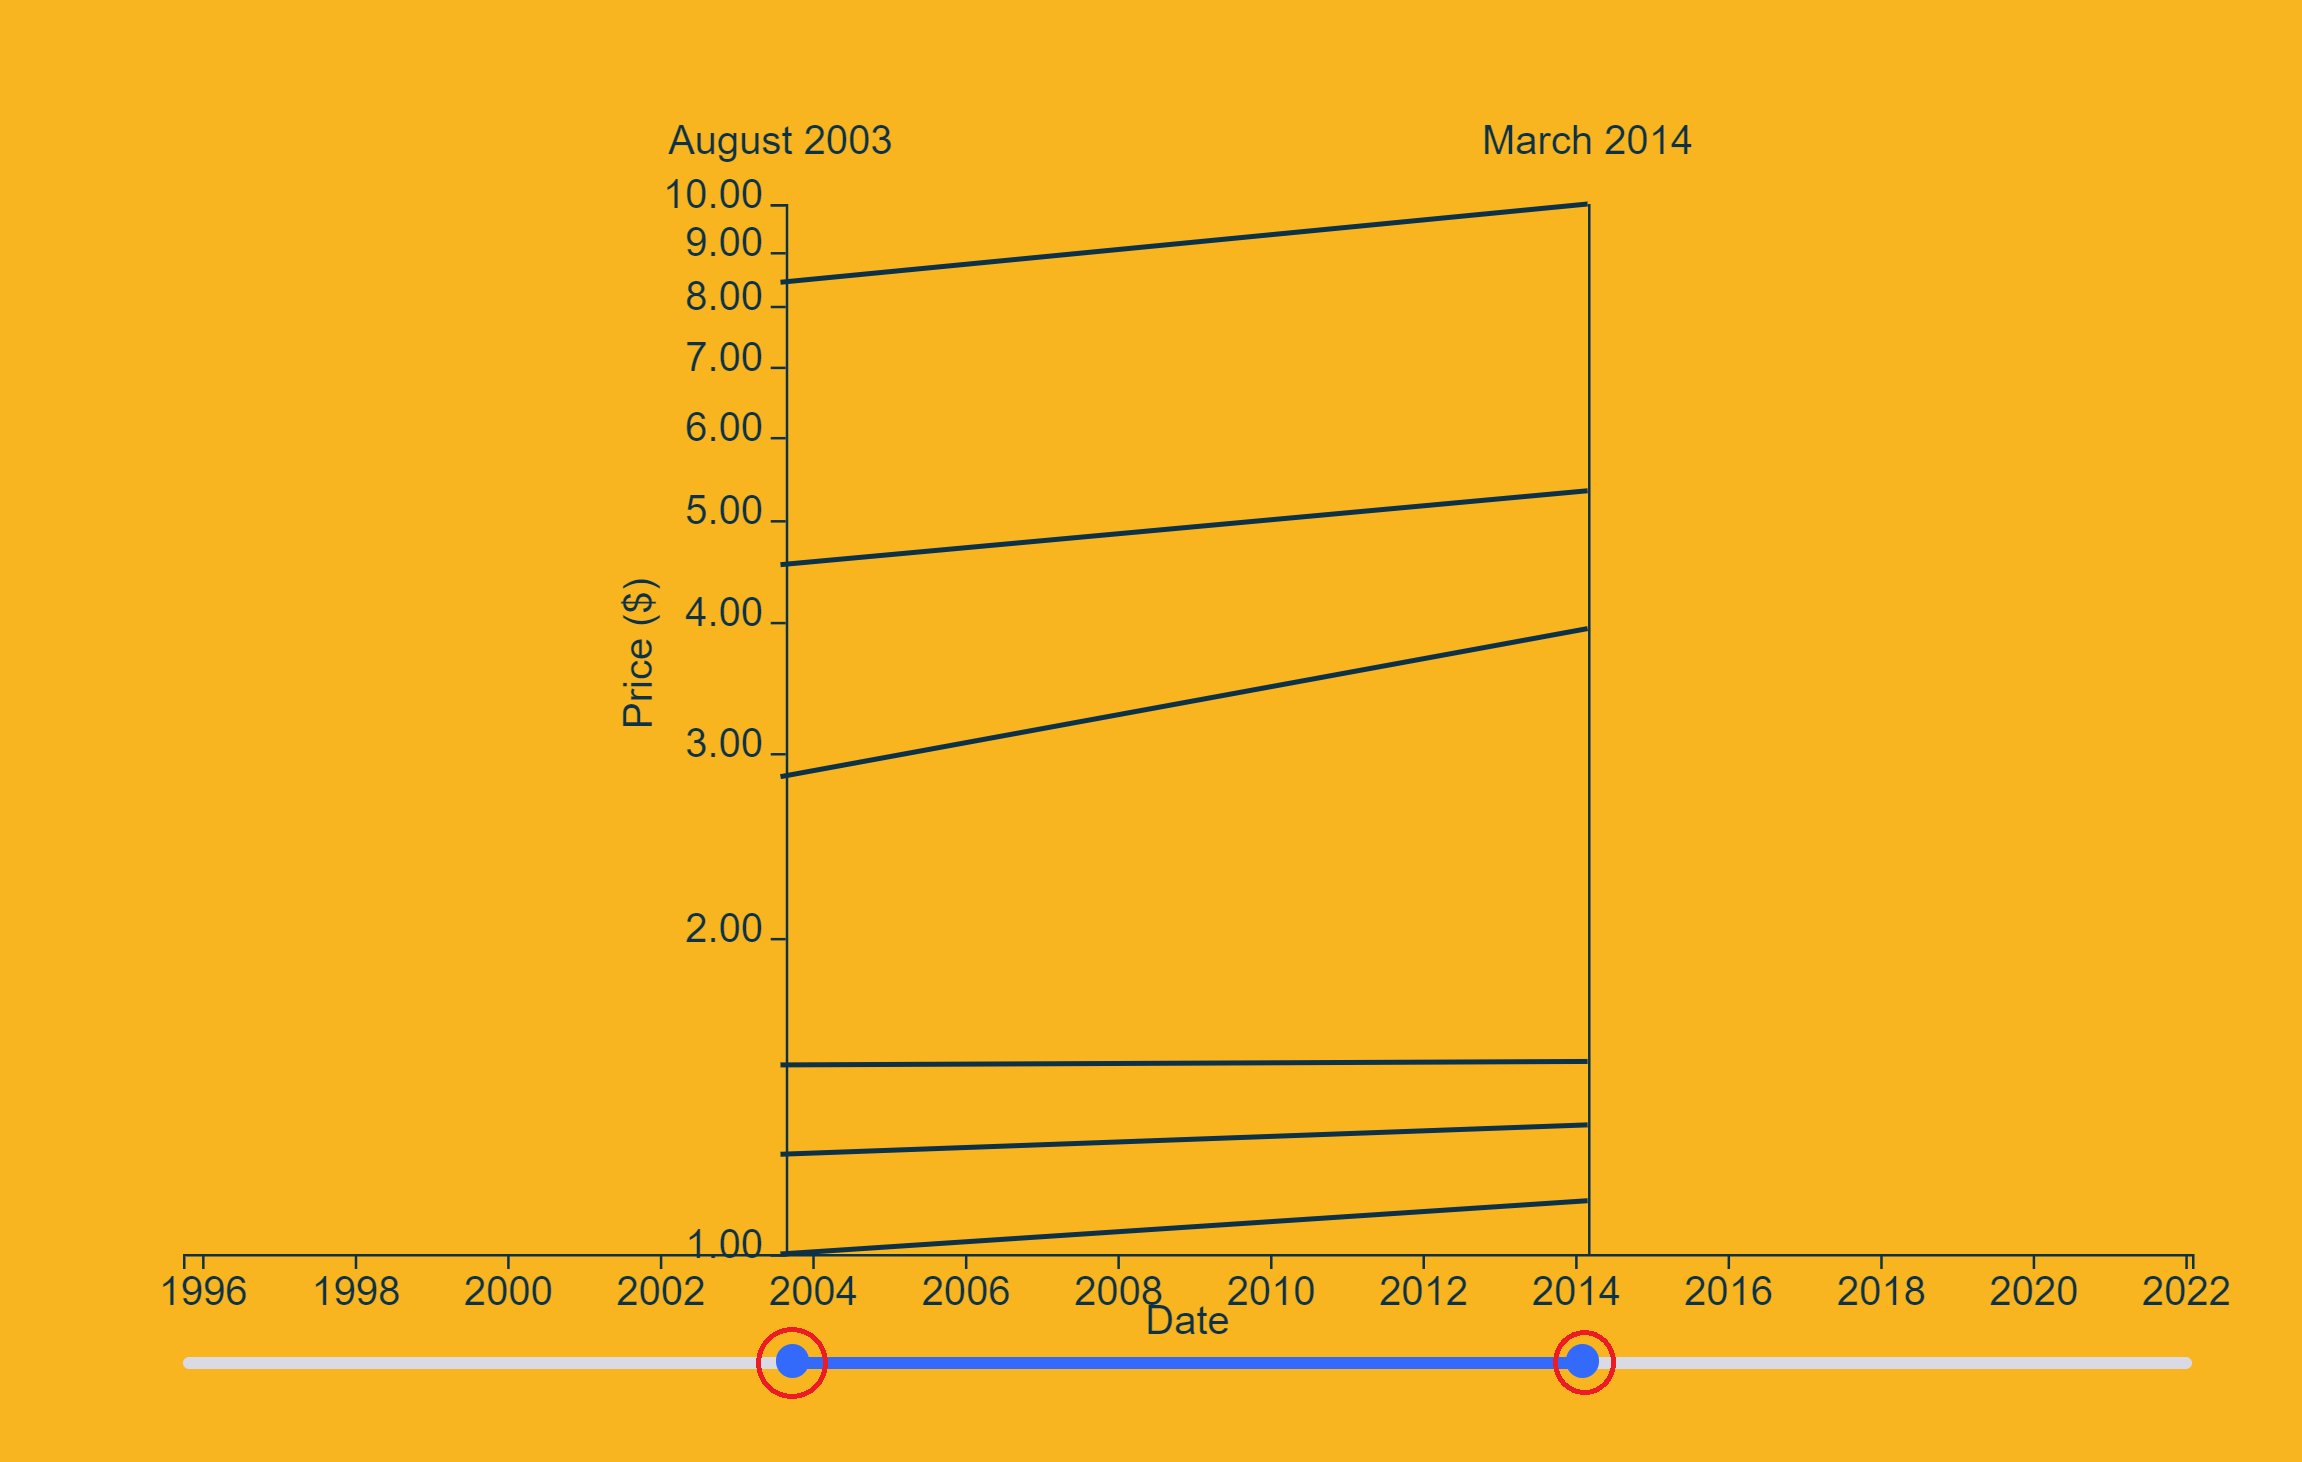
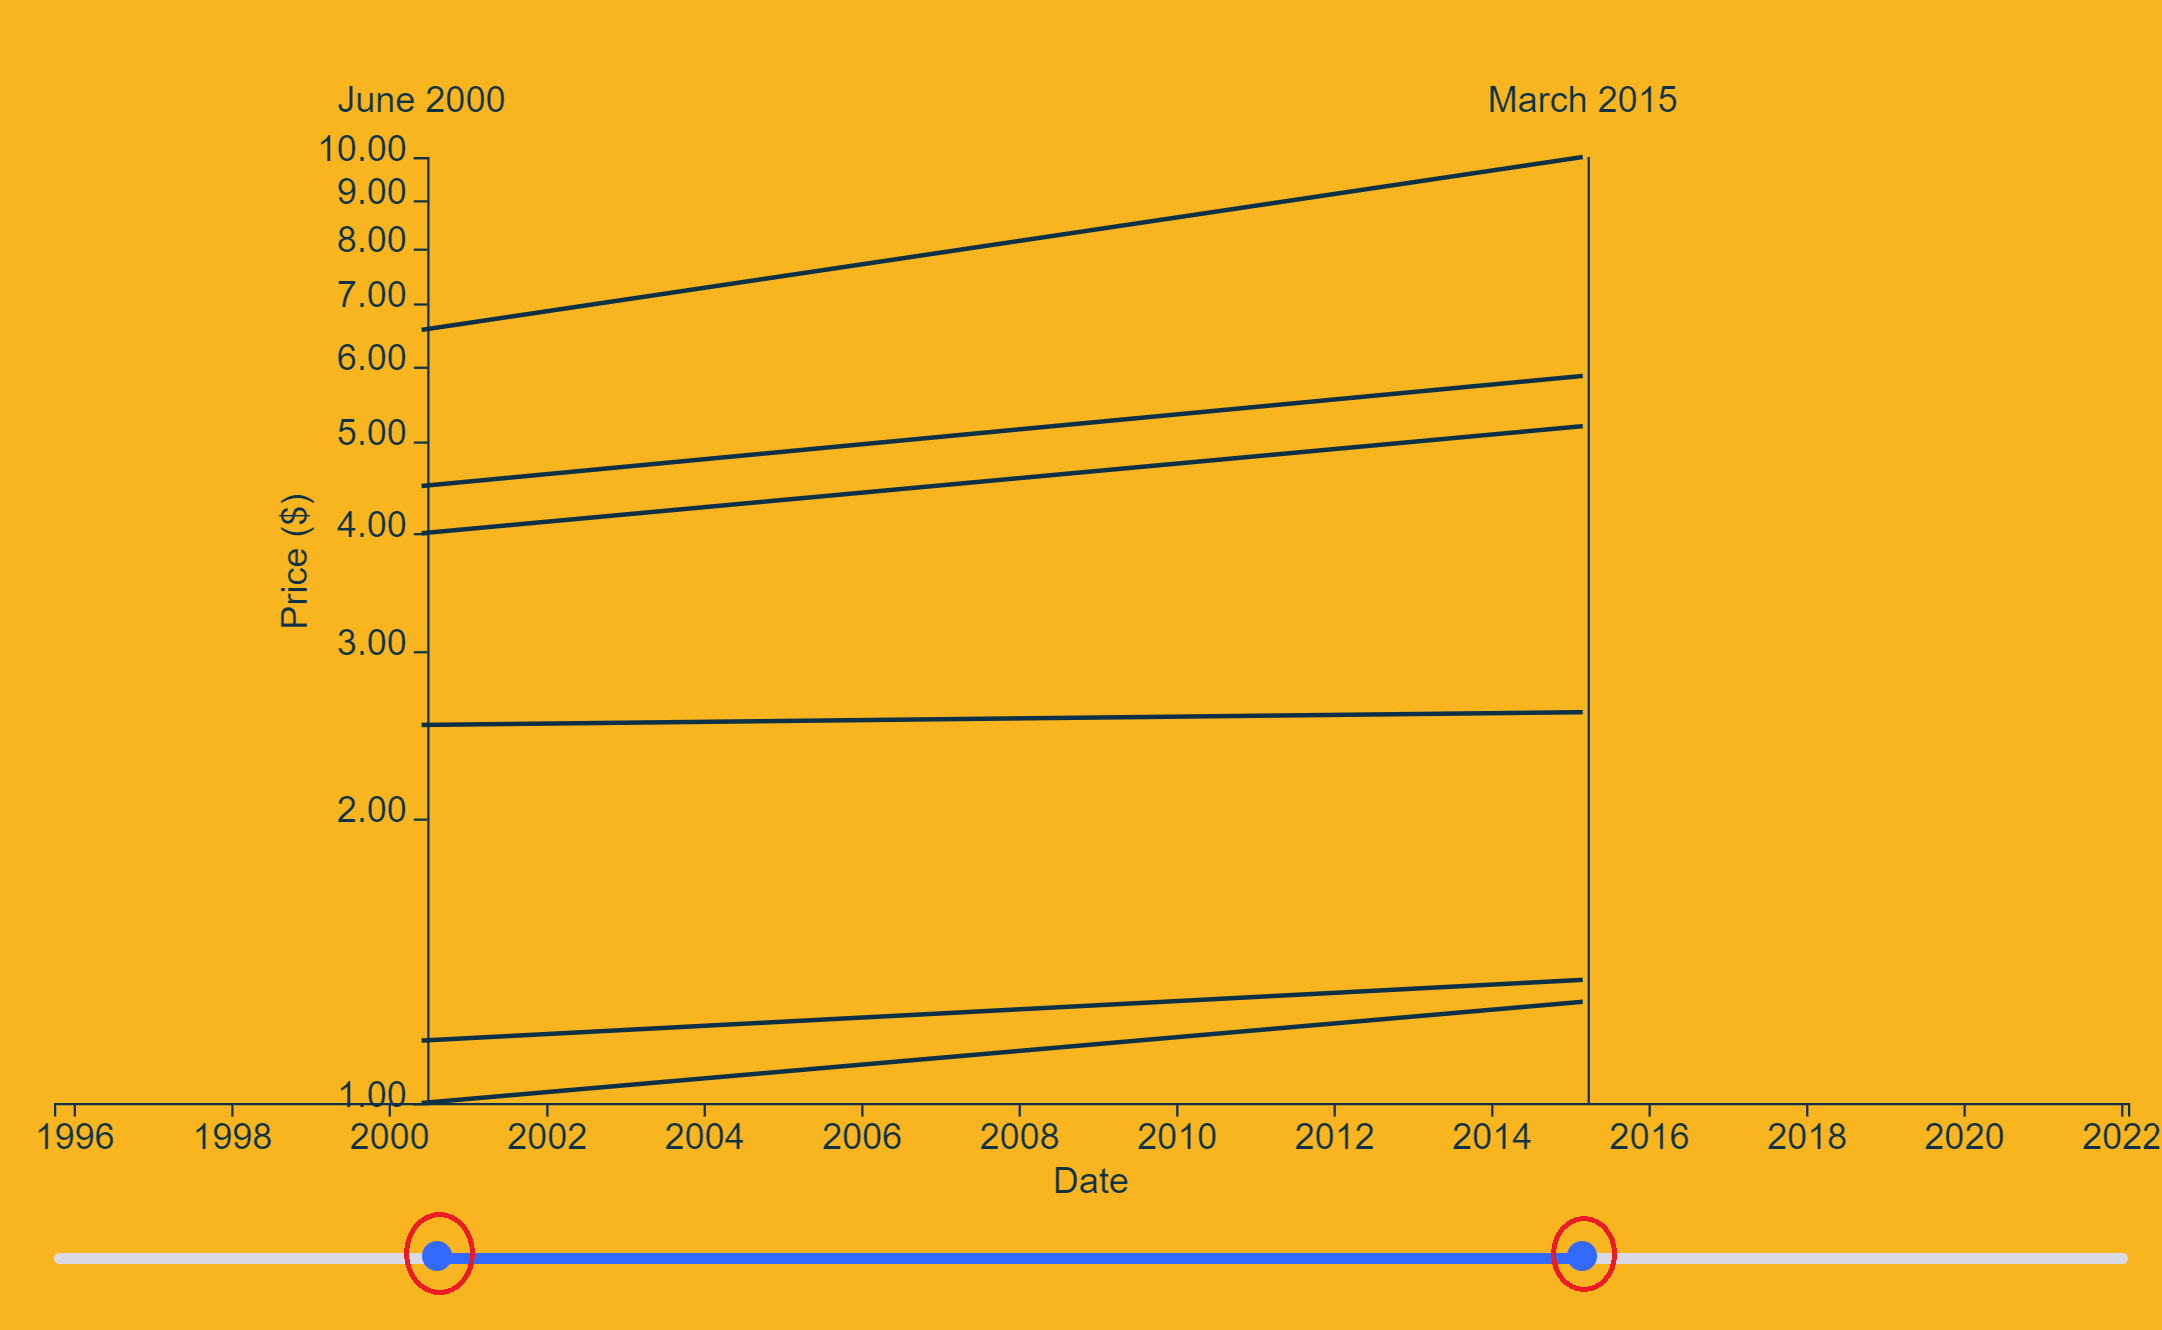
Move helper button up and refresh helper images

diff --git a/src/scripts/graphics/priceChanges.js b/src/scripts/graphics/priceChanges.js
@@ -238,44 +238,7 @@ function drawLines () {
     return
   }
   createCurves(selectedData)
-  createToolTip()
   formatYAxesDateLabels(selectedData)
-}
-
-/**
- *
- */
-function createToolTip () {
-  d3.select('#linesPriceChange')
-    .selectAll('.curvePriceChange')
-    .on('mouseenter', function (d) {
-      d3.select(this)
-        .attr('stroke', 'var(--accent)')
-        .attr('stroke-width', '4')
-      d3.select('body')
-        .append('div')
-        .attr('id', 'tooltip')
-        .style('position', 'absolute')
-        .style('z-index', '10')
-        .style('background', 'white')
-        .style('padding', '10px')
-        .style('border-radius', '5px')
-        .style('box-shadow', '1px 1px 5px black')
-        .style('left', (d3.event.pageX + glob.sizes.tooltip.offsetY) + 'px')
-        .style('top', (d3.event.pageY + glob.sizes.tooltip.offsetY) + 'px')
-        .html(`<strong>Product: ${d.map(a => a.product)[0]}<br/> 
-                Price in ${d.map(a => a.date)[0]}: $${d.map(a => a.price)[0]}<br/> 
-                Price in ${d.map(a => a.date)[1]}: $${d.map(a => a.price)[1]}
-                </strong>`)
-    })
-    .on('mouseleave', function () {
-      d3.select(this)
-        .attr('stroke', 'var(--front)')
-        .attr('stroke-width', '2')
-      d3.select('#tooltip')
-        .remove()
-    }
-    )
 }
 
 /**
@@ -302,6 +265,34 @@ function createCurves (selectedData) {
     .attr('stroke', 'var(--front)')
     .attr('stroke-width', '2')
     .attr('fill', 'none')
+    .on('mouseenter', function (d) {
+      d3.select(this)
+        .attr('stroke', 'var(--accent')
+        .attr('stroke-width', '4')
+      d3.select('body')
+        .append('div')
+        .attr('id', 'tooltip')
+        .style('position', 'absolute')
+        .style('z-index', '10')
+        .style('background', 'white')
+        .style('padding', '10px')
+        .style('border-radius', '5px')
+        .style('box-shadow', '1px 1px 5px black')
+        .style('left', (d3.event.pageX + glob.sizes.tooltip.offsetY) + 'px')
+        .style('top', (d3.event.pageY + glob.sizes.tooltip.offsetY) + 'px')
+        .html(`<strong>Product: ${d.map(a => a.product)[0]}<br/> 
+                Price in ${d.map(a => a.date)[0]}: $${d.map(a => a.price)[0]}<br/> 
+                Price in ${d.map(a => a.date)[1]}: $${d.map(a => a.price)[1]}
+                </strong>`)
+    })
+    .on('mouseleave', function () {
+      d3.select(this)
+        .attr('stroke', 'var(--front)')
+        .attr('stroke-width', '2')
+      d3.select('#tooltip')
+        .remove()
+    }
+    )
 }
 
 /**

diff --git a/src/scripts/graphics/helper.js b/src/scripts/graphics/helper.js
@@ -8,12 +8,12 @@ export function createHelper (divId, numStates, folderName) {
   d3.select('#' + divId)
     .select(function () { return this.parentNode })
     .append('div')
-    .style('width','0px')
-    .style('height','0px')
+    .style('width', '0px')
+    .style('height', '0px')
     .append('div')
     .style('position', 'relative')
     .style('right', '20px')
-    .style('top', '0px')
+    .style('top', '-35px')
     .style('float', 'right')
     .attr('class', 'noselect tmp')
     .text('?')
@@ -88,7 +88,7 @@ function createHelp (numStates, folderName) {
     })
 }
 /**
- * @param contentDiv: d3 selection of the div that will contain the help 
+ * @param contentDiv: d3 selection of the div that will contain the help
  * @param numStates: number of window that explain how the visualization works
  * @param folderName: name of the folder where the html file for the help content is
  */

diff --git a/src/assets/data/popup/priceChanges/1.html b/src/assets/data/popup/priceChanges/1.html
@@ -1,5 +1,6 @@
 <img src="assets/data/popup/priceChanges/1.png">
 <p>
-    Move these sliders to adjust to choose the time period.
-    For example, you can choose (June 2003 - March 2014). 
+    Move these sliders to choose the time period.
+    For example, you can choose (June 2000 - March 2015). 
+    For each product, the curves link the prices to the chosen dates.
 </p>
